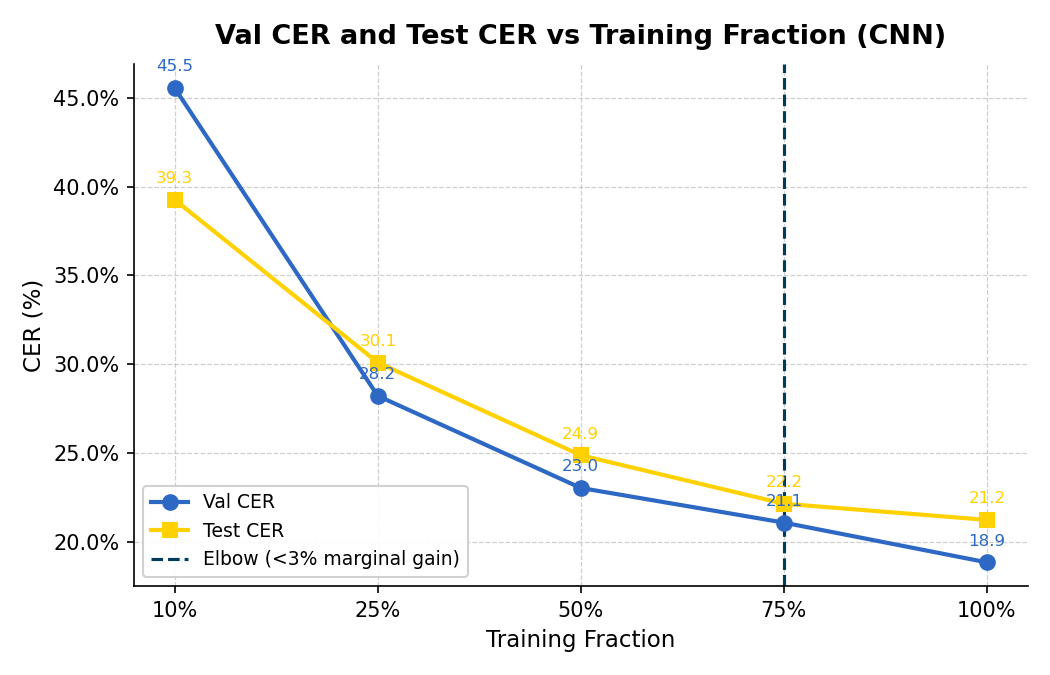
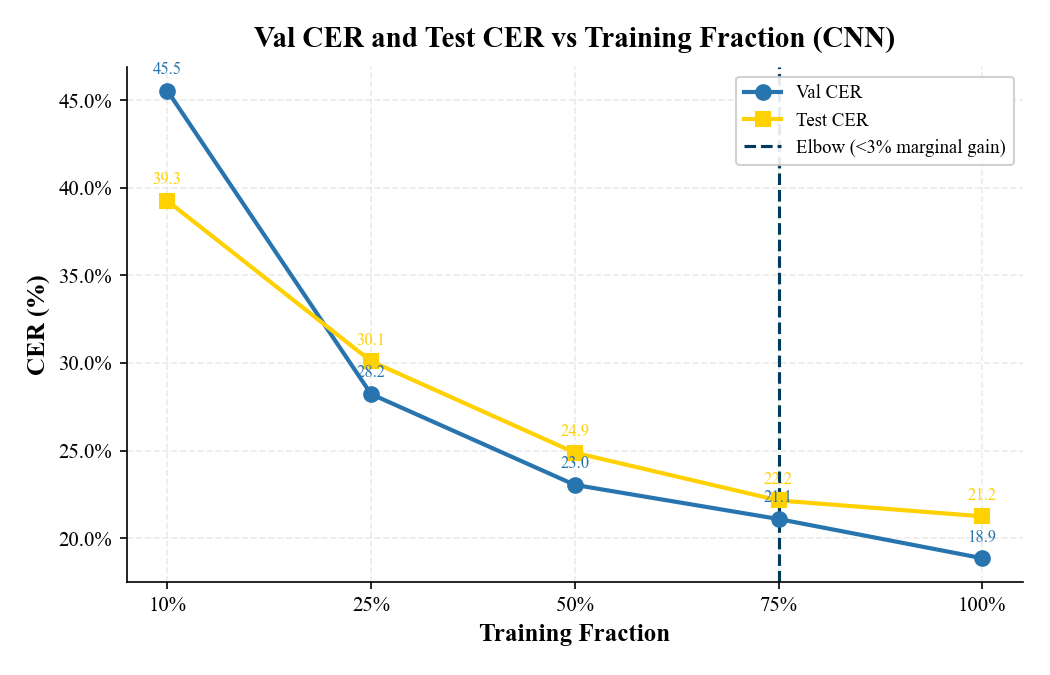
update plot styling, fix channel ablation script epochs flag

diff --git a/Playground_Mumbi/plot_results.py b/Playground_Mumbi/plot_results.py
@@ -16,7 +16,35 @@ import matplotlib.pyplot as plt
 import matplotlib.ticker as mticker
 import pandas as pd
 
-UCLA_COLORS = ['#2D68C4', '#FFD100', '#003B5C', '#8BB8E8', '#00A5E0', '#005587']
+UCLA = {
+    "blue":       "#2774AE",
+    "gold":       "#FFD100",
+    "dark_blue":  "#003B5C",
+    "mid_blue":   "#005587",
+    "light_blue": "#8BB8EE",
+    "dark_gold":  "#FFB81C",
+}
+UCLA_COLORS = [
+    UCLA["blue"], UCLA["gold"], UCLA["dark_blue"],
+    UCLA["light_blue"], UCLA["mid_blue"], UCLA["dark_gold"],
+]
+
+matplotlib.rcParams.update({
+    "font.family":       "serif",
+    "font.serif":        ["Times New Roman"],
+    "font.size":         12,
+    "axes.titlesize":    14,
+    "axes.titleweight":  "bold",
+    "axes.labelsize":    12,
+    "axes.labelweight":  "bold",
+    "figure.facecolor":  "white",
+    "axes.facecolor":    "white",
+    "axes.spines.top":   False,
+    "axes.spines.right": False,
+    "xtick.labelsize":   10,
+    "ytick.labelsize":   10,
+    "legend.fontsize":   10,
+})
 
 FRACTIONS_ORDERED = [0.10, 0.25, 0.50, 0.75, 1.00]
 FRACTION_LABELS   = {0.10: "10%", 0.25: "25%", 0.50: "50%", 0.75: "75%", 1.00: "100%"}
@@ -30,12 +58,10 @@ PLOTS_DIR   = os.path.join(RESULTS_DIR, "training_fraction_ablation_plots")
 # ---------------------------------------------------------------------------
 
 def _apply_style(ax: plt.Axes, title: str, xlabel: str, ylabel: str) -> None:
-    ax.set_title(title, fontsize=13, fontweight="bold", pad=10)
-    ax.set_xlabel(xlabel, fontsize=11)
-    ax.set_ylabel(ylabel, fontsize=11)
-    ax.grid(True, linestyle="--", linewidth=0.6, alpha=0.6)
-    ax.spines["top"].set_visible(False)
-    ax.spines["right"].set_visible(False)
+    ax.set_title(title, pad=10)
+    ax.set_xlabel(xlabel)
+    ax.set_ylabel(ylabel)
+    ax.grid(True, linestyle="--", alpha=0.25)
     ax.tick_params(labelsize=10)
 
 
@@ -121,7 +147,7 @@ def plot_cer_vs_fraction(summary: pd.DataFrame, model: str, display: str) -> Non
                  title=f"Val CER and Test CER vs Training Fraction ({display})",
                  xlabel="Training Fraction",
                  ylabel="CER (%)")
-    ax.legend(fontsize=9, framealpha=0.9)
+    ax.legend(fontsize=9, framealpha=0.9, loc="upper right")
     fig.tight_layout()
 
     os.makedirs(PLOTS_DIR, exist_ok=True)
@@ -199,14 +225,6 @@ def plot_training_time(summary: pd.DataFrame, model: str, display: str) -> None:
                 bar.get_height() + 0.01,
                 f"{val:.2f}x",
                 ha="center", va="bottom", fontsize=9, fontweight="bold")
-
-    # Note
-    ax.text(0.02, 0.97,
-            "Normalized to full dataset\ntraining time",
-            transform=ax.transAxes, fontsize=8, va="top", ha="left",
-            color="#555555",
-            bbox=dict(boxstyle="round,pad=0.3", facecolor="white",
-                      edgecolor="#cccccc", alpha=0.8))
 
     ax.set_xticks(x)
     ax.set_xticklabels(labels)
